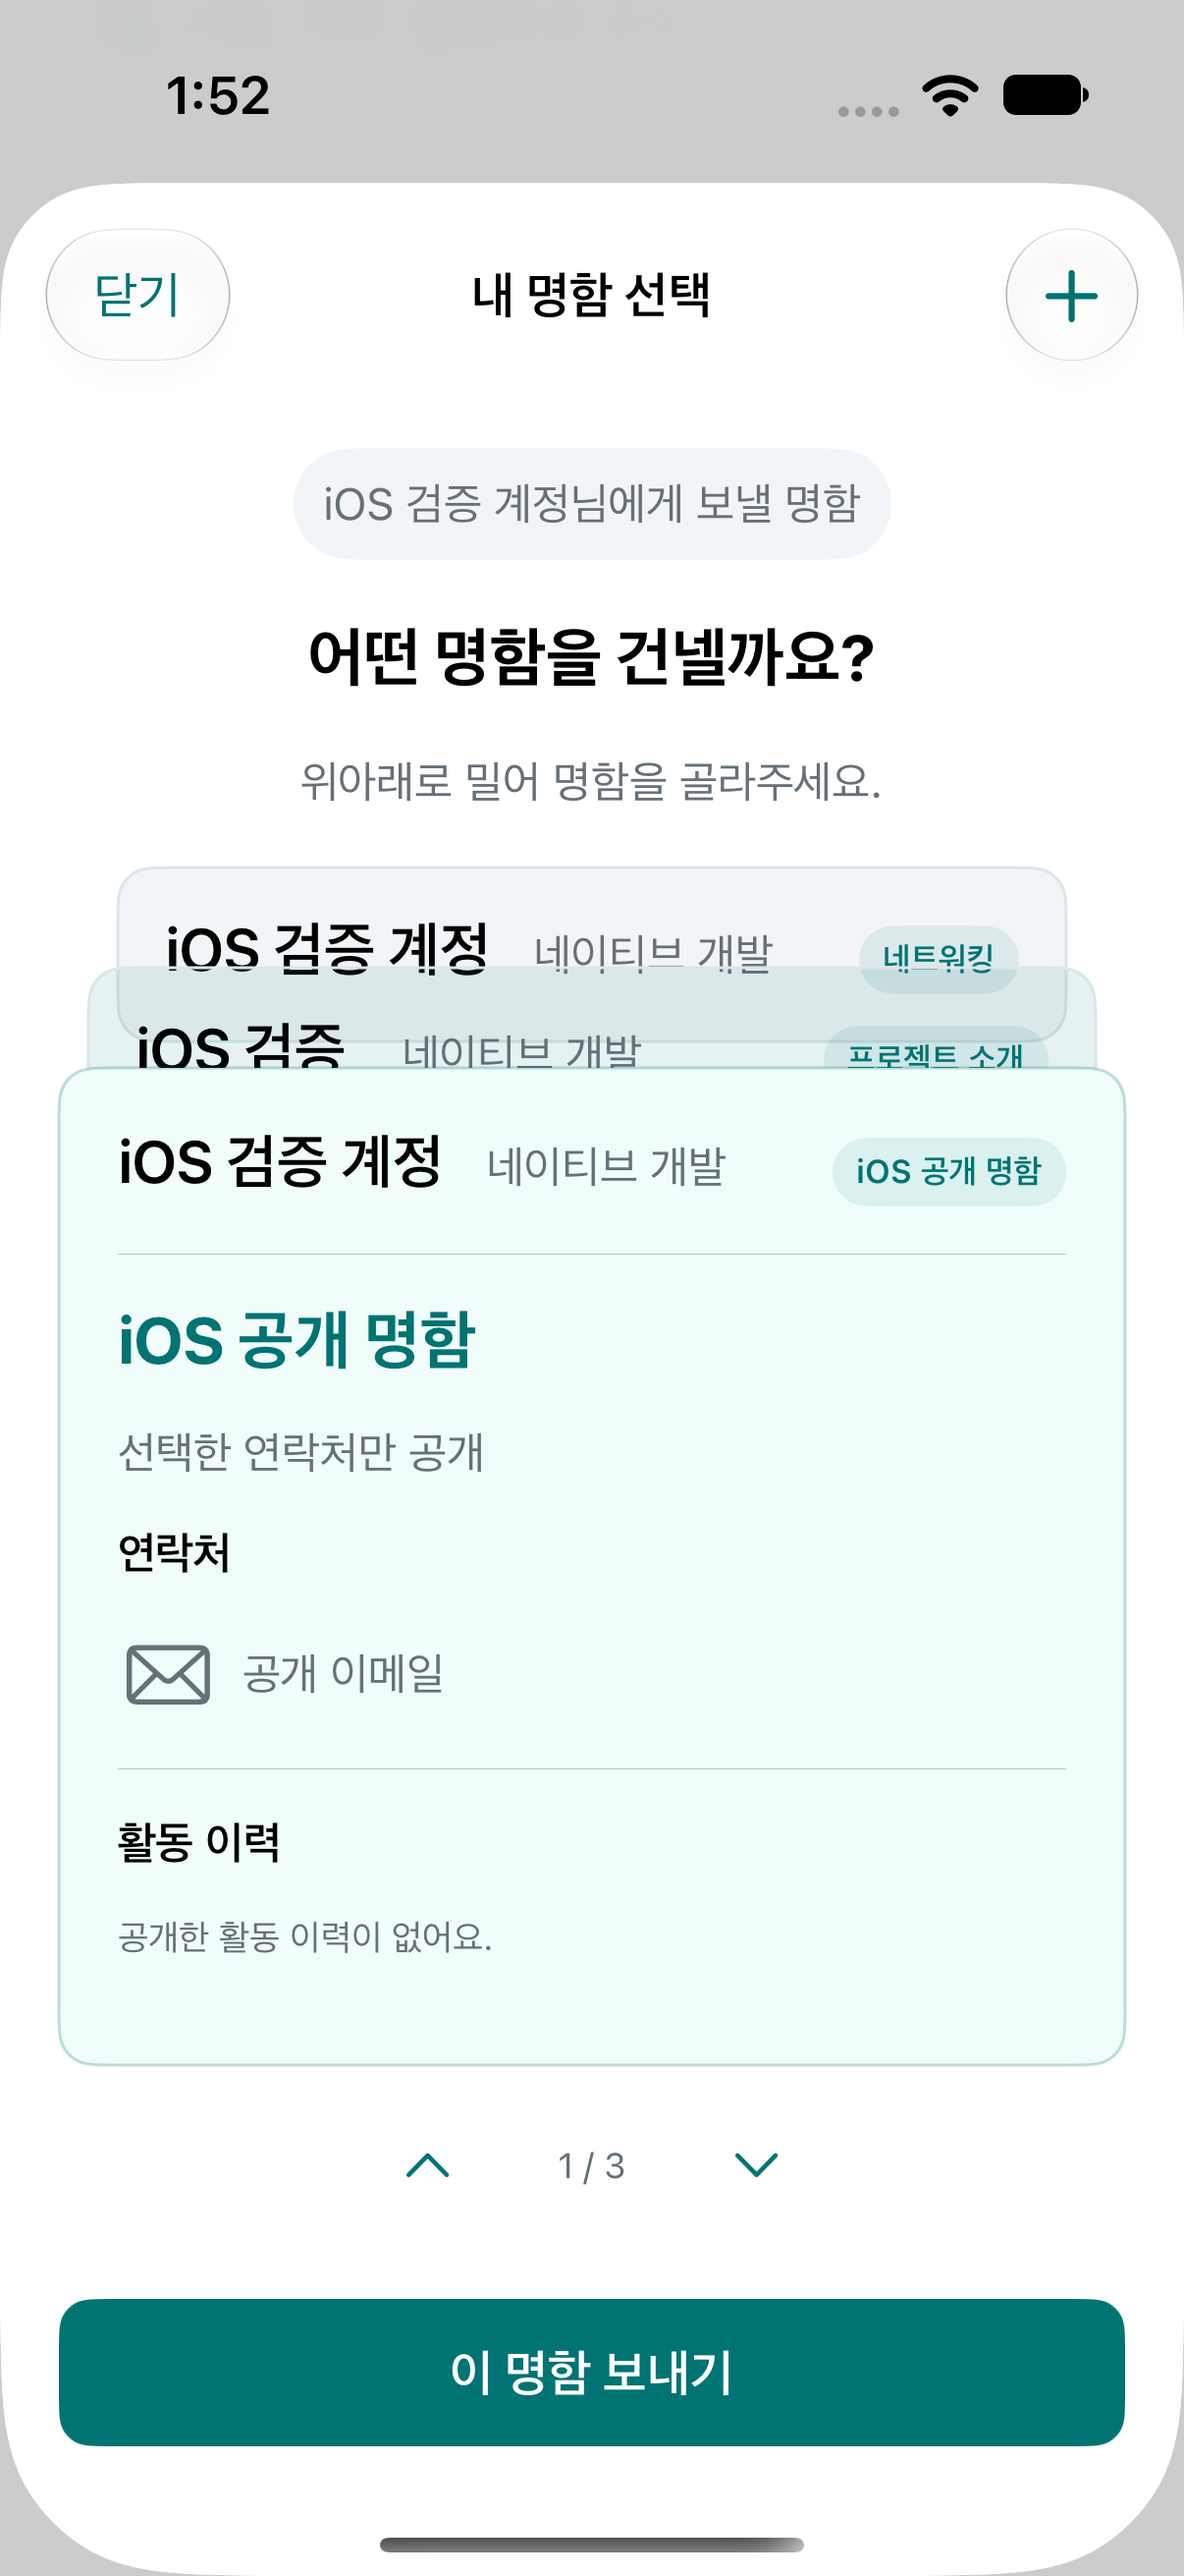
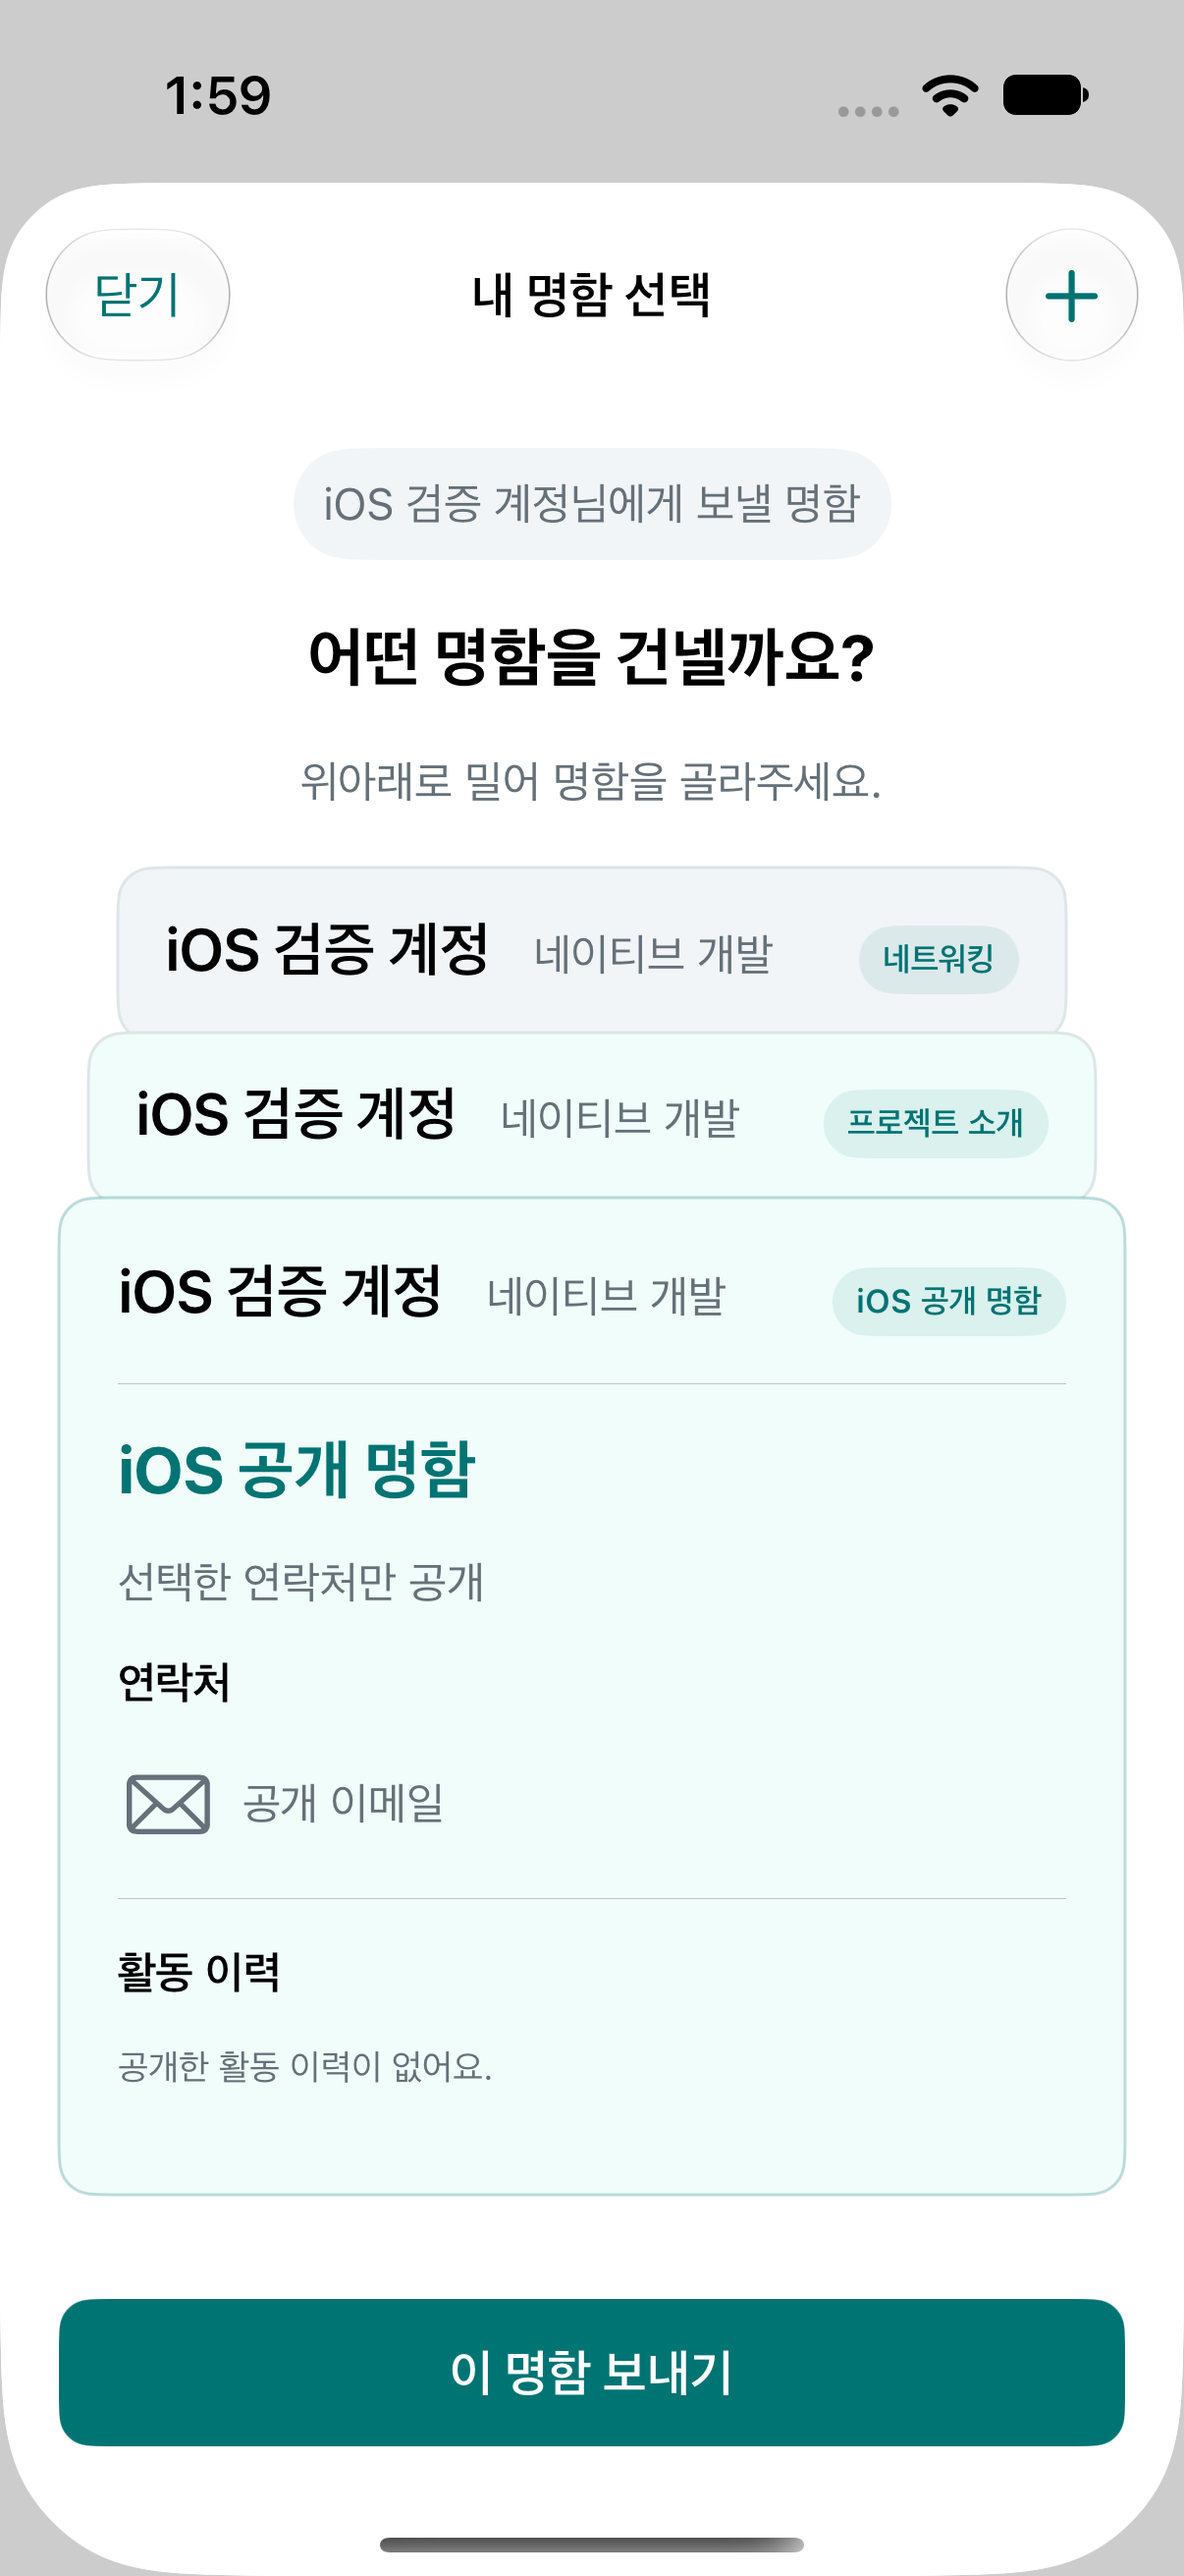
test(ios): record corrected card picker header evidence

diff --git a/apps/ios/docs/evidence/visual-fidelity/README.md b/apps/ios/docs/evidence/visual-fidelity/README.md
@@ -53,3 +53,13 @@ UI tests run with `-parallel-testing-enabled NO`; authenticated/guest phases are
 Early captures exposed a hidden native TabView still reserving its floating bar, detail tab visibility, fixed-action occlusion and low secondary contrast. The final shell uses native NavigationStack with retained catalog paths and a flat bar. An attempted hidden-stack approach was removed. Tests initially treated offscreen/occluded buttons as hittable; viewport guards now use the actual tab boundary and edge scrolling. Catalog tests then passed. A top-state screenshot retry initially over-scrolled a native sheet and dismissed it; the test now captures the send prompt immediately after presentation. Other intermediate failures were the stopped old API, invalid fixture date formatting, a test-only unsupported selector, and iOS27 hiding the cancel-role button in a confirmation popover; explicit visible cancel fixed the latter. Failed bundles are not counted as passing evidence.
 
 Ponytail review removed duplicate recipient ID/snapshot state in favor of one transient public CardModel and kept only actually reused card/timeline/button primitives. No repository/service wrapper, theme engine, navigation engine, or speculative dependency was added. Correctness/accessibility/storage checks are reported separately above. Final image review caught and corrected Behance glyph wrapping without shrinking the button hit target.
+
+## CardDeck clipping follow-up — 2026-09-27 13:59 KST
+
+Source commit `02cd13082aad54f92fff25577d326d9e0620d41b`. Only CardDeck changed: opaque existing mint for the intermediate card, title3-scaled 56pt reveal instead of 34pt, and one-line back headers with a minimum 0.8 scale to accommodate the longer variant badge. The stack is 44pt taller at the default size with two back cards; existing scrolling handles the extra height. Selected-card text, selection/swipe, accessibility-category back-card hiding and delivery/idempotency logic are unchanged.
+
+[Corrected actual picker top](after/send-card-picker-top.png) replaces the prior clipped image. Visually inspected: both back-card names/jobs and variant badges are complete, without glyph clipping or transparency bleed. The first 56pt-only attempt still wrapped the middle name; the final one-line treatment fixes that observed case. Very long arbitrary names can still truncate under the normal one-line policy; this task does not claim an exhaustive content/layout matrix.
+
+Targeted Debug build passed; strict SwiftLint 0.65.1 on CardView.swift passed with zero violations, including after the final adjustment. Final rebuild plus one authenticated capture-only XCUITest passed at13:59:15 KST (10.079s, zero failures): profile edit control proves login, wallet send action opens the sheet, and `navigationBars["내 명함 선택"]` is asserted before the sole screenshot. The existing `testAuthenticatedProfileAndQR` body was temporarily narrowed for capture and restored byte-for-byte afterward; this follow-up did not rerun or claim the full test flow. One prior targeted capture passed at13:58:20 and exposed the wrapped-name issue; only the corrected PNG is retained. Device and API remained the assigned iPhone17 Simulator and localhost57937. Original attachment/time/source hash and PNG SHA256 are in the manifest.
+
+Orca emulator attach failed because its helper could not load SimulatorKit from the installed Xcode paths; XCUITest supplied actual simulator evidence instead, with no configuration changes. Broad suite, Release and accessibility-size flows were not rerun per the narrow task. Ponytail review: Lean already. Ship. Correctness inspection confirms the source diff only affects back-header presentation and reveal spacing. Local logs/result: `/tmp/dearby-carddeck-final.log`, `/tmp/dearby-carddeck-final.xcresult`; no secrets or temporary test changes committed.

diff --git a/docs/context/ios-implementation-and-handoff.md b/docs/context/ios-implementation-and-handoff.md
@@ -32,3 +32,10 @@
 캘린더 충돌/추가, 푸시, 외부 신청 폼 자동 입력/제출, 운영 메일/HTTPS 인증, Universal Links/실기 카메라·사진 권한을 완료로 주장하지 않는다. 생성·발행·상대 전달은 기존 auth/server success/지속 idempotency 조건을 유지한다. 비로그인 저장은 카드ID/context만 저장하며, 확인 취소·실패로 저장 완료 처리하지 않는다. 이름/연락처값/날짜 등 시안 샘플은 제품 데이터로 복제하지 않았다.
 
 iOS27 native toolbar/sheet chrome는 시스템 동작을 유지해 시안의 그림과 완전히 동일하지 않다. 가장 큰 글자에서 스크롤·수직 헤더·명시적 카드 이동이 동작한다. 별도 작은 화면 기기와 VoiceOver 음성 순회는 실행하지 않았고 다른 세션 기기를 건드리지 않았다. QR 크기를 줄여 타일을 억지로 한 화면에 넣지 않았으며 긴 이력/명함은 스크롤된다.
+
+
+## CardDeck 후속 수정 — 2026-09-27 13:59 KST
+
+담당 terminal `term_87063272-bb44-49fe-a5f6-b2be9d02a0e0`, task `task_94395276c3ad`, dispatch `ctx_d9a62d0bc9d9`. 소스 commit `02cd13082aad54f92fff25577d326d9e0620d41b`: 중간 카드 불투명 mint, title3 기준 scaled56pt 노출, 뒤 헤더 한 줄/minimumScaleFactor0.8. 이름·직업·명함 배지를 유지하며 glyph 잘림/비침을 수정했다. 카드 선택/스와이프/전송 idempotency/접근성 크기 뒤 카드 숨김은 미변경.
+
+지정 Simulator/API로 Debug build 및 파일 단위 strict lint0건, 최종 rebuild와 인증·sheet title 확인 후 상단 캡처 단일 XCUITest13:59:15 통과(10.079초). 기존 테스트는 캡처 전용으로 임시 축소 후 원문 복구; 전체 회귀는 재실행하지 않았다. Orca helper의 SimulatorKit 로드 실패는 XCUITest로 우회하고 설정 미변경. [수정 PNG](../../apps/ios/docs/evidence/visual-fidelity/after/send-card-picker-top.png)와 manifest를 교체했으며 보고서에 첫 캡처의 줄바꿈 발견/수정, 실제 실행 범위와 제한을 기록했다. Ponytail review: Lean already. Ship. 세션은 사용자 요청대로 유지하며 coordinator가 통합·retain한다.
